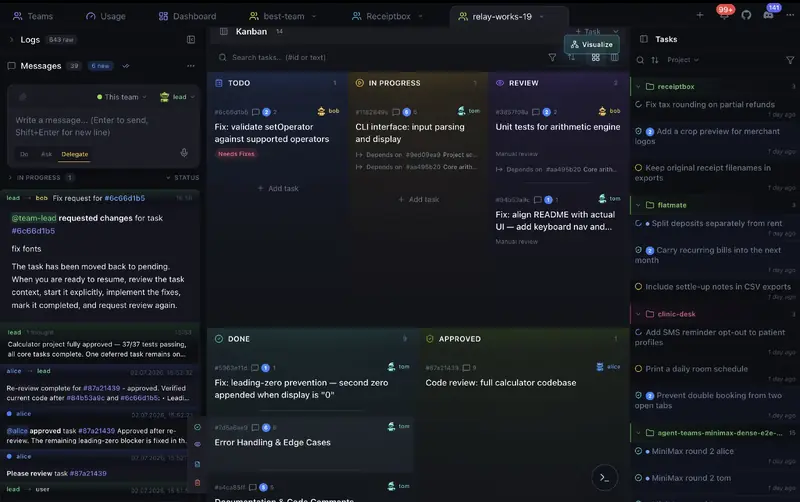
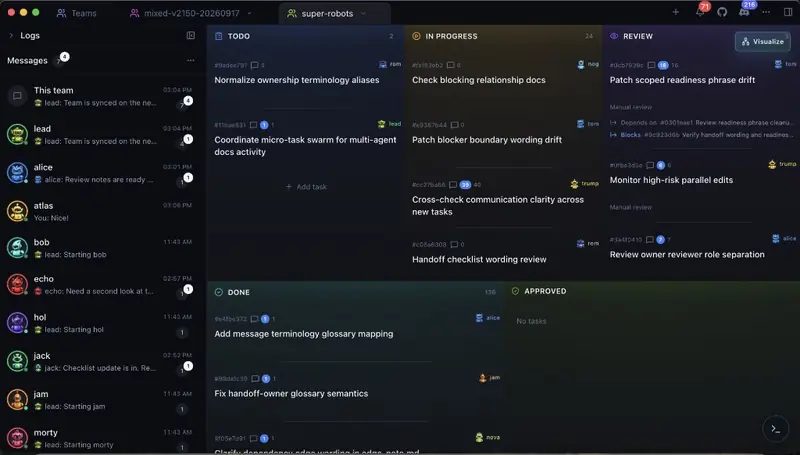
Lead the screenshot gallery with the new team Messages board. (#680)
Swap the README/landing slots for 1 and 13, and replace the kanban original plus WebP preview with the current chat-list capture.

diff --git a/landing/data/screenshots.ts b/landing/data/screenshots.ts
@@ -14,12 +14,12 @@ export type Screenshot = {
  */
 export const screenshots: Screenshot[] = [
   {
-    path: 'screenshots/13.jpg',
-    previewPath: 'screenshots/previews/13.webp',
-    alt: 'Connected AI coding providers and subscription limits',
-    ruAlt: 'Подключённые AI-провайдеры и лимиты подписок',
-    width: 2560,
-    height: 1606,
+    path: 'screenshots/1.jpg',
+    previewPath: 'screenshots/previews/1.webp',
+    alt: 'Kanban board with team messages and agent tasks',
+    ruAlt: 'Канбан-доска с сообщениями команды и задачами агентов',
+    width: 1024,
+    height: 582,
   },
   {
     path: 'screenshots/14.png',
@@ -38,12 +38,12 @@ export const screenshots: Screenshot[] = [
     height: 1656,
   },
   {
-    path: 'screenshots/1.jpg',
-    previewPath: 'screenshots/previews/1.webp',
-    alt: 'Kanban board with agent tasks',
-    ruAlt: 'Канбан-доска с задачами агентов',
-    width: 2624,
-    height: 1648,
+    path: 'screenshots/13.jpg',
+    previewPath: 'screenshots/previews/13.webp',
+    alt: 'Connected AI coding providers and subscription limits',
+    ruAlt: 'Подключённые AI-провайдеры и лимиты подписок',
+    width: 2560,
+    height: 1606,
   },
   {
     path: 'screenshots/2.png',

diff --git a/README.md b/README.md
@@ -38,8 +38,8 @@
 </tr>
 <tr>
 <td width="50%">
-  <a href="docs/screenshots/13.jpg">
-    <img src="docs/screenshots/previews/13.webp" alt="Connected AI coding providers and subscription limits" width="100%" loading="lazy" />
+  <a href="docs/screenshots/1.jpg">
+    <img src="docs/screenshots/previews/1.webp" alt="Kanban board with team messages and agent tasks" width="100%" loading="lazy" />
   </a>
 </td>
 <td width="50%">
@@ -74,8 +74,8 @@
 </tr>
 <tr>
 <td width="50%">
-  <a href="docs/screenshots/1.jpg">
-    <img src="docs/screenshots/previews/1.webp" alt="Kanban board with agent tasks" width="100%" loading="lazy" />
+  <a href="docs/screenshots/13.jpg">
+    <img src="docs/screenshots/previews/13.webp" alt="Connected AI coding providers and subscription limits" width="100%" loading="lazy" />
   </a>
 </td>
 <td width="50%">
